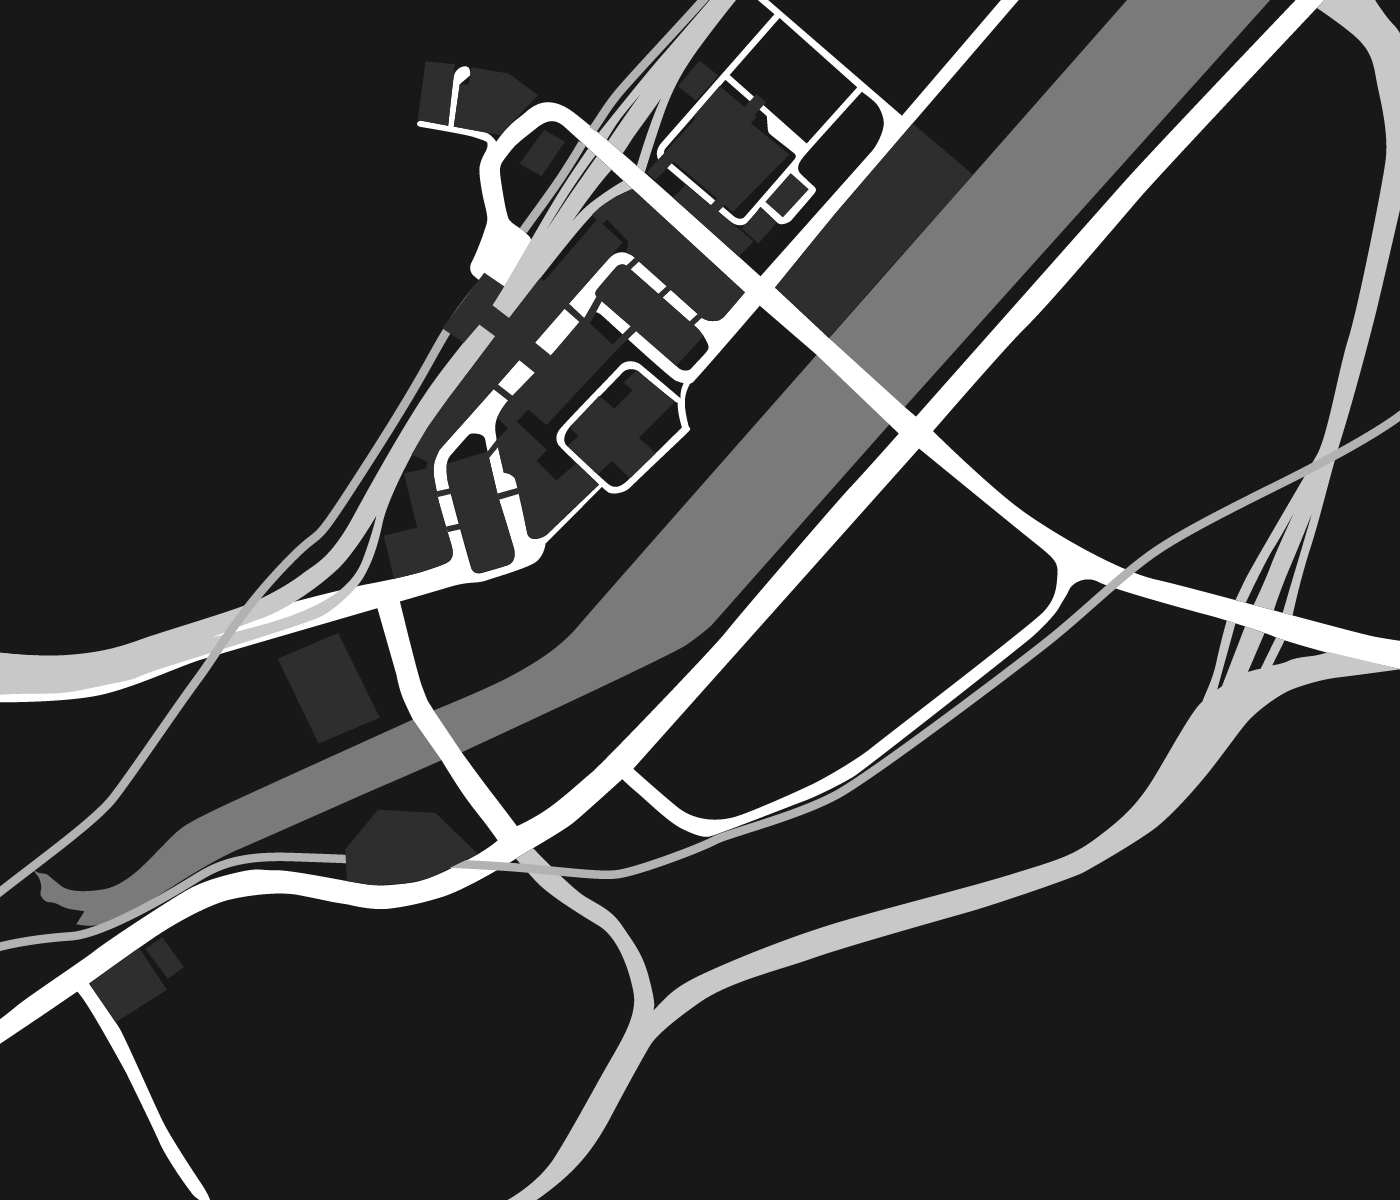
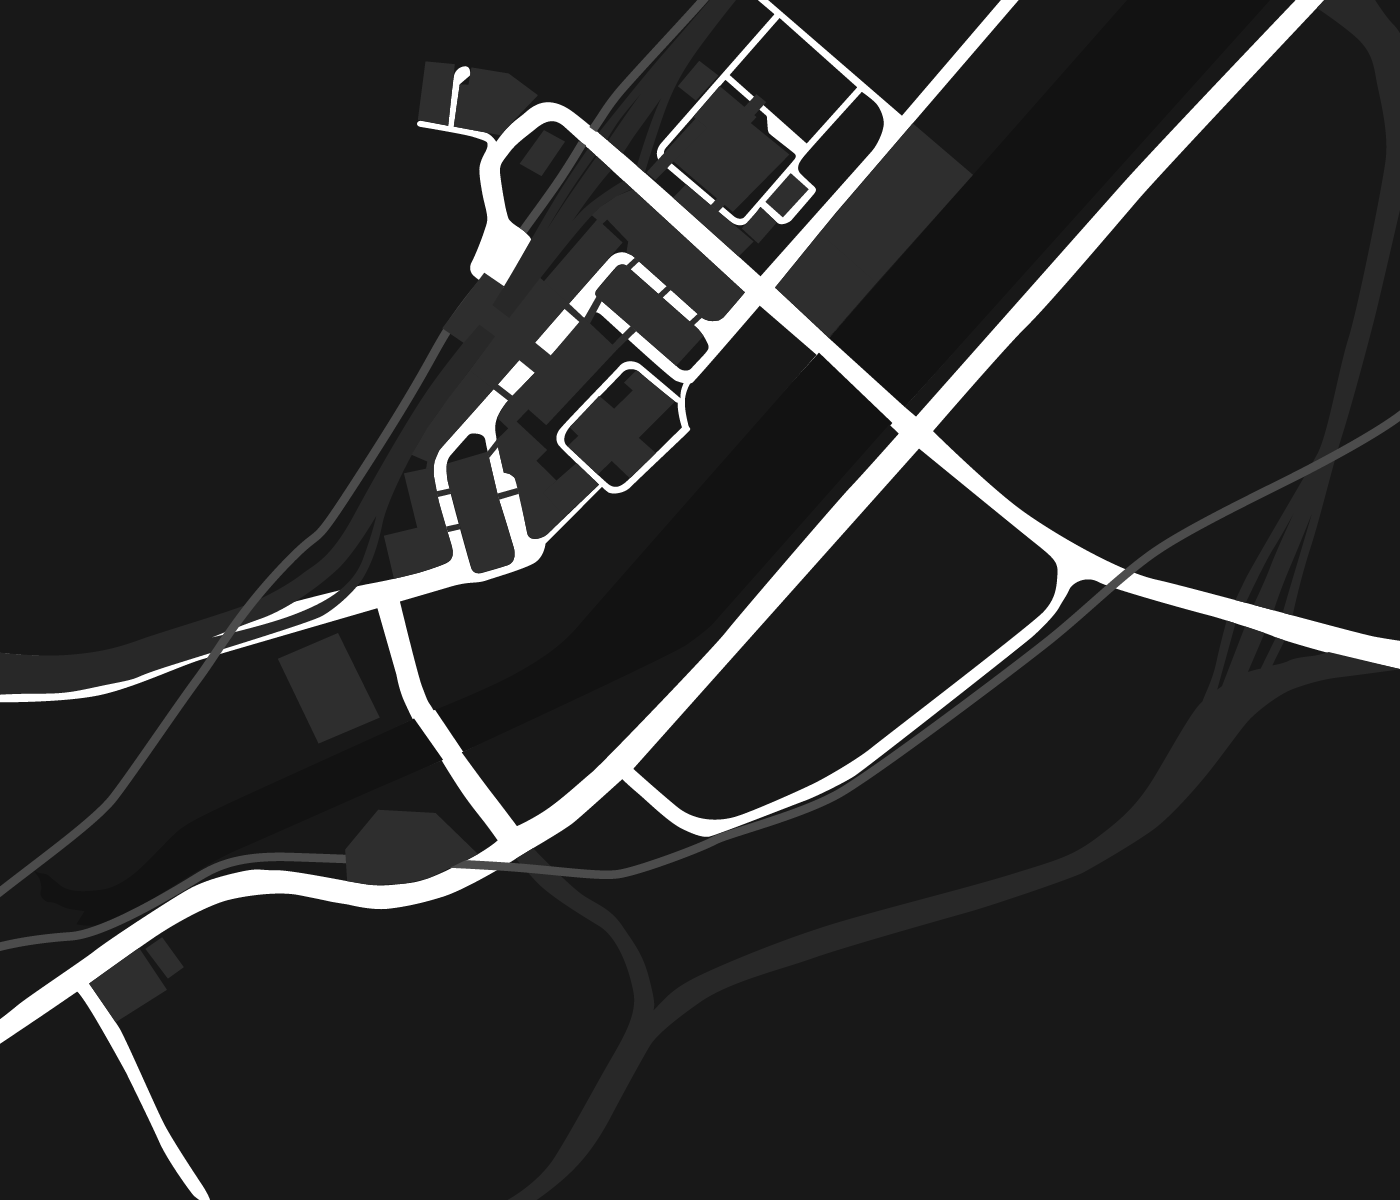
Add files via upload

diff --git a/index.html b/index.html
@@ -27,11 +27,10 @@
 		main {
 			position: fixed;
 			left: 5%;
-			bottom: 10%;
+			top: 0%;
 			min-width: 768px;
-			max-width: 1600px;
 			width: 90%;
-			height: 90%;
+			height: 100%;
 		}
 
 		aside {
@@ -39,7 +38,7 @@
 			right: 0;
 			top: 0;
 			z-index: 150;
-			width: 100%;
+			width: 10%;
 			height: 100%;
 			background: none;
 		}
@@ -53,11 +52,11 @@
 		}
 
 		section {
-			background: #c8c8c8;
+			background: #282828;
 			position: absolute;
 			width: 1400px;
 			height: 1200px;
-			left: 45%;
+			left: 50%;
 			top: 50%;
 			margin-left: -700px;
 			margin-top: -600px;
@@ -198,8 +197,7 @@
 			display: inline-block;
 			overflow: hidden;
 			float: left;
-			margin-top: 10px;
-			margin-right: 10px;
+			margin: 10px 0 10px 10px;
 			box-shadow: 0 0 100px 10px rgba(0,0,0,0.75);
 			box-shadow: inset 0px 0px 100px -50px rgba(0,0,0,0.75);
 		}
@@ -292,7 +290,7 @@
 	</style>
 </head>
 <body>
-	<!--<div id="log"></div>-->
+	<!--<div id="log"></div
 	<nav>
 		<ul>
 			<li>6.9 <br>一百零三萬人大遊行</li>
@@ -315,7 +313,7 @@
 			<li>7.21<br>港島區大遊行</li>
 			<li>7.26<br>和你飛集會</li>
 		</ul>
-	</nav>
+	</nav>>-->
 	<main>
 		<aside>
 	<h2><span>2<br>0<br>1<br>9</span>年<span>7</span>月<span>14</span>日</h2>
